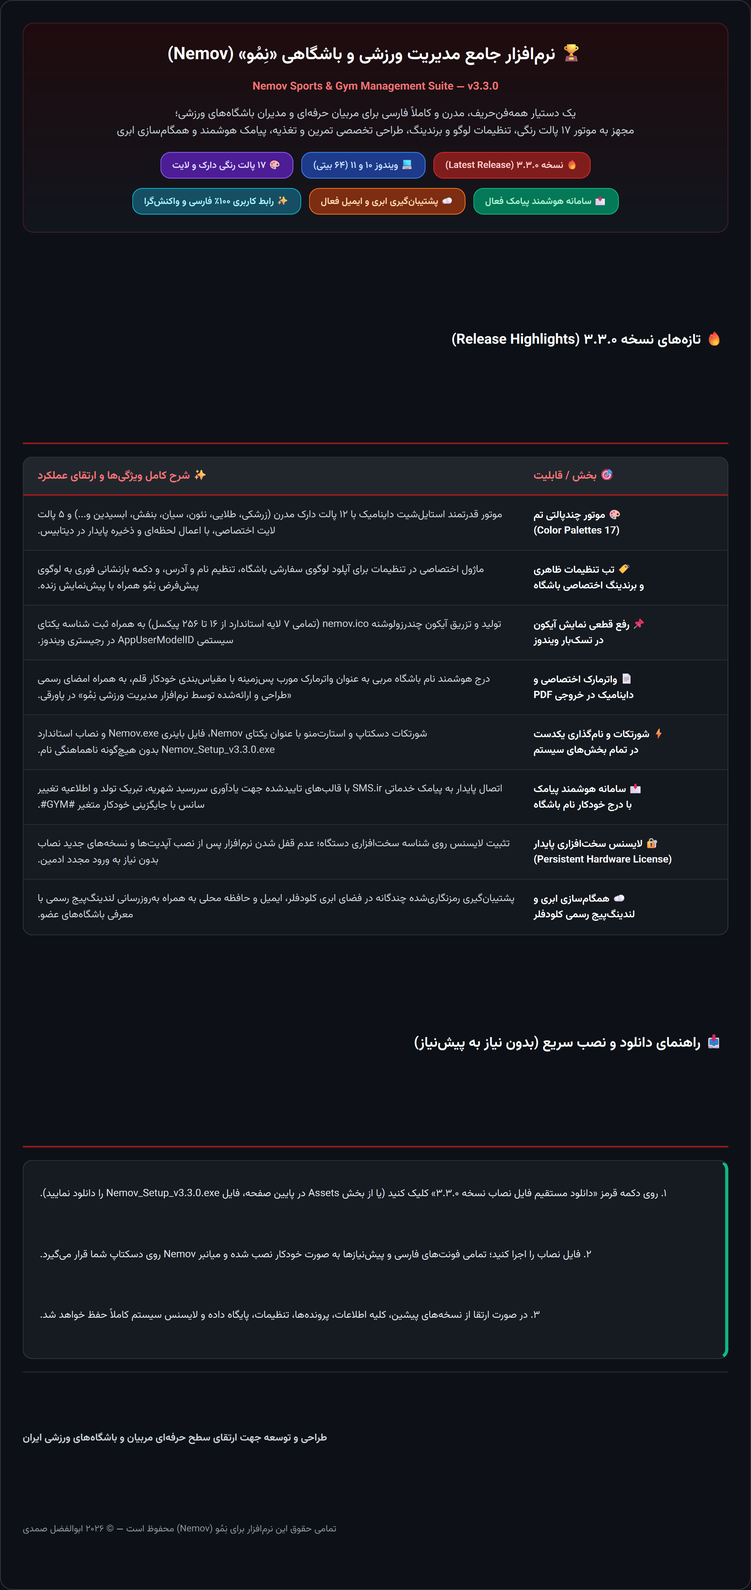
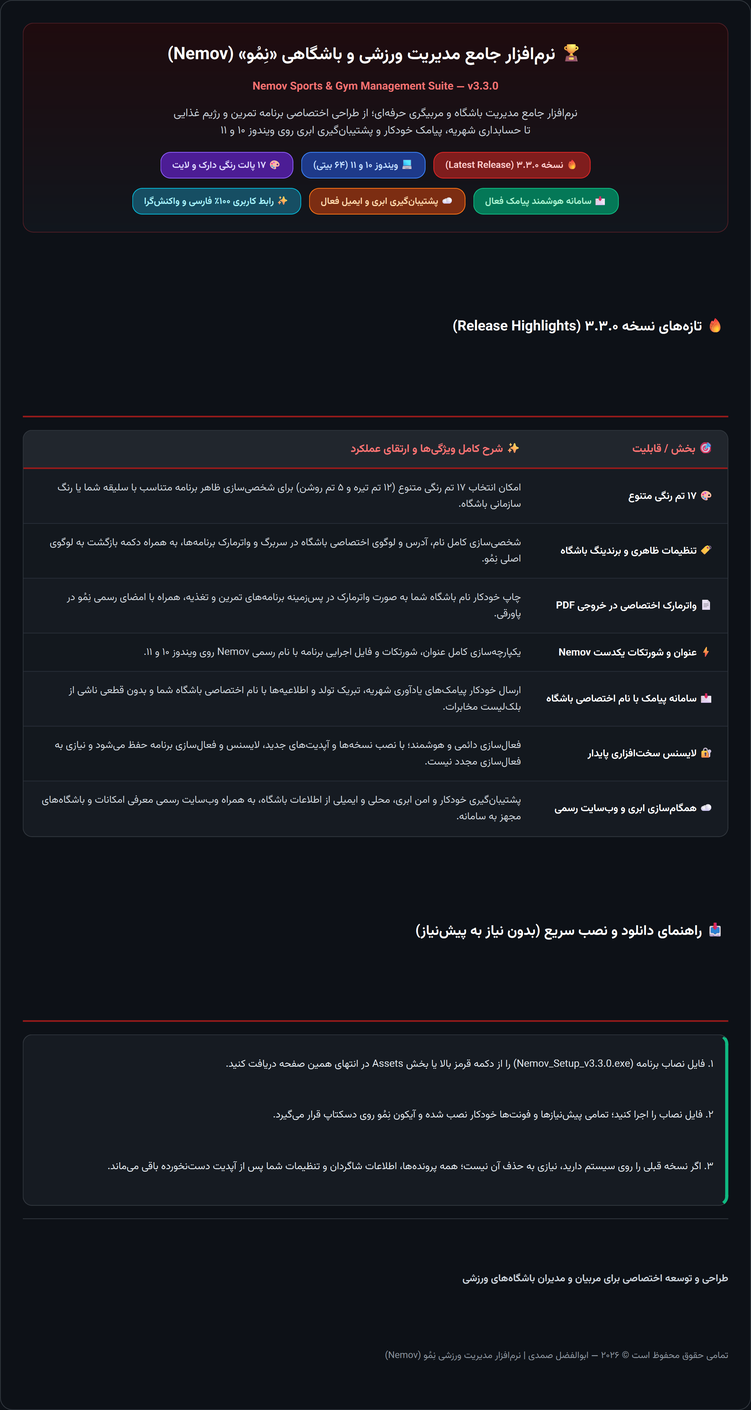
docs(readme): apply humanized Persian copywriting, remove taskbar row, and ensure strict RTL alignment

diff --git a/scripts/render_github_vazirmatn_cards.py b/scripts/render_github_vazirmatn_cards.py
@@ -62,7 +62,7 @@ def make_section_header(title_text: str) -> QFrame:
     lay = QHBoxLayout(frame)
     lay.setContentsMargins(0, 8, 0, 6)
     lbl = QLabel(title_text)
-    lbl.setAlignment(Qt.AlignmentFlag.AlignRight | Qt.AlignmentFlag.AlignVCenter)
+    lbl.setAlignment(Qt.AlignmentFlag.AlignLeading | Qt.AlignmentFlag.AlignVCenter)
     lbl.setStyleSheet(f"""
         QLabel {{
             color: #FFFFFF;
@@ -109,11 +109,11 @@ def make_feature_table(rows_data: list) -> QFrame:
 
     lbl_h1 = QLabel("🎯 بخش / قابلیت")
     lbl_h1.setFixedWidth(230)
-    lbl_h1.setAlignment(Qt.AlignmentFlag.AlignRight | Qt.AlignmentFlag.AlignVCenter)
+    lbl_h1.setAlignment(Qt.AlignmentFlag.AlignLeading | Qt.AlignmentFlag.AlignVCenter)
     lbl_h1.setStyleSheet(f"color: #F87171; font-family: '{FONT_FAMILY}'; font-size: 13.5px; font-weight: bold; border: none; background: transparent;")
 
     lbl_h2 = QLabel("✨ شرح کامل ویژگیها و ارتقای عملکرد")
-    lbl_h2.setAlignment(Qt.AlignmentFlag.AlignRight | Qt.AlignmentFlag.AlignVCenter)
+    lbl_h2.setAlignment(Qt.AlignmentFlag.AlignLeading | Qt.AlignmentFlag.AlignVCenter)
     lbl_h2.setStyleSheet(f"color: #F87171; font-family: '{FONT_FAMILY}'; font-size: 13.5px; font-weight: bold; border: none; background: transparent;")
 
     hlay.addWidget(lbl_h1)
@@ -139,16 +139,16 @@ def make_feature_table(rows_data: list) -> QFrame:
         rlay.setSpacing(16)
 
         c1 = QLabel()
-        c1.setText(f"<div dir='rtl' align='right' style='text-align: right;'>{col1.replace(chr(10), '<br/>')}</div>")
+        c1.setText(f"<div align='right'>{col1.replace(chr(10), '<br/>')}</div>")
         c1.setFixedWidth(230)
         c1.setWordWrap(True)
-        c1.setAlignment(Qt.AlignmentFlag.AlignRight | Qt.AlignmentFlag.AlignVCenter)
+        c1.setAlignment(Qt.AlignmentFlag.AlignLeading | Qt.AlignmentFlag.AlignVCenter)
         c1.setStyleSheet(f"color: #FFFFFF; font-family: '{FONT_FAMILY}'; font-size: 13px; font-weight: bold; border: none; background: transparent;")
 
         c2 = QLabel()
-        c2.setText(f"<div dir='rtl' align='right' style='text-align: right;'>{col2}</div>")
+        c2.setText(f"<div align='right'>{col2}</div>")
         c2.setWordWrap(True)
-        c2.setAlignment(Qt.AlignmentFlag.AlignRight | Qt.AlignmentFlag.AlignVCenter)
+        c2.setAlignment(Qt.AlignmentFlag.AlignLeading | Qt.AlignmentFlag.AlignVCenter)
         c2.setStyleSheet(f"color: #D0D7DE; font-family: '{FONT_FAMILY}'; font-size: 13px; border: none; background: transparent;")
 
         rlay.addWidget(c1)
@@ -217,7 +217,7 @@ def build_hero_box(is_release: bool = False) -> QFrame:
     lbl_en.setStyleSheet(f"color: #F87171; font-family: '{FONT_FAMILY}'; font-size: 14px; font-weight: bold; background: transparent; border: none;")
 
     lbl_desc = QLabel()
-    lbl_desc.setText("<div align='center'>یک دستیار همهفنحریف، مدرن و کاملاً فارسی برای مربیان حرفهای و مدیران باشگاههای ورزشی؛<br/>مجهز به موتور ۱۷ پالت رنگی، تنظیمات لوگو و برندینگ، طراحی تخصصی تمرین و تغذیه، پیامک هوشمند و همگامسازی ابری</div>")
+    lbl_desc.setText("<div align='center'>نرمافزار جامع مدیریت باشگاه و مربیگری حرفهای؛ از طراحی اختصاصی برنامه تمرین و رژیم غذایی<br/>تا حسابداری شهریه، پیامک خودکار و پشتیبانگیری ابری روی ویندوز ۱۰ و ۱۱</div>")
     lbl_desc.setAlignment(Qt.AlignmentFlag.AlignCenter)
     lbl_desc.setWordWrap(True)
     lbl_desc.setStyleSheet(f"color: #C9D1D9; font-family: '{FONT_FAMILY}'; font-size: 13.5px; background: transparent; border: none;")
@@ -265,13 +265,13 @@ def build_footer_box() -> QFrame:
     lay.setSpacing(6)
 
     l1 = QLabel()
-    l1.setText("<div dir='rtl' align='right' style='text-align: right;'>طراحی و توسعه جهت ارتقای سطح حرفهای مربیان و باشگاههای ورزشی ایران</div>")
-    l1.setAlignment(Qt.AlignmentFlag.AlignRight | Qt.AlignmentFlag.AlignVCenter)
+    l1.setText("<div align='right'>طراحی و توسعه اختصاصی برای مربیان و مدیران باشگاههای ورزشی</div>")
+    l1.setAlignment(Qt.AlignmentFlag.AlignLeading | Qt.AlignmentFlag.AlignVCenter)
     l1.setStyleSheet(f"color: #C9D1D9; font-family: '{FONT_FAMILY}'; font-size: 13px; font-weight: bold; border: none;")
 
     l2 = QLabel()
-    l2.setText("<div dir='rtl' align='right' style='text-align: right;'>تمامی حقوق این نرمافزار برای نِمُو (Nemov) محفوظ است — © ۲۰۲۶ ابوالفضل صمدی</div>")
-    l2.setAlignment(Qt.AlignmentFlag.AlignRight | Qt.AlignmentFlag.AlignVCenter)
+    l2.setText("<div align='right'>تمامی حقوق محفوظ است © ۲۰۲۶ — ابوالفضل صمدی | نرمافزار مدیریت ورزشی نِمُو (Nemov)</div>")
+    l2.setAlignment(Qt.AlignmentFlag.AlignLeading | Qt.AlignmentFlag.AlignVCenter)
     l2.setStyleSheet(f"color: #8B949E; font-family: '{FONT_FAMILY}'; font-size: 12px; border: none;")
 
     lay.addWidget(l1)
@@ -280,22 +280,20 @@ def build_footer_box() -> QFrame:
 
 
 HIGHLIGHTS_ROWS_V3_3_0 = [
-    ("🎨 موتور چندپالتی تم\n(17 Color Palettes)",
-     "موتور قدرتمند استایلشیت داینامیک با ۱۲ پالت دارک مدرن (زرشکی، طلایی، نئون، سیان، بنفش، ابسیدین و...) و ۵ پالت لایت اختصاصی، با اعمال لحظهای و ذخیره پایدار در دیتابیس."),
-    ("🏷 تب تنظیمات ظاهری\nو برندینگ اختصاصی باشگاه",
-     "ماژول اختصاصی در تنظیمات برای آپلود لوگوی سفارشی باشگاه، تنظیم نام و آدرس، و دکمه بازنشانی فوری به لوگوی پیشفرض نِمُو همراه با پیشنمایش زنده."),
-    ("📌 رفع قطعی نمایش آیکون\nدر تسکبار ویندوز",
-     "تولید و تزریق آیکون چندرزولوشنه nemov.ico (تمامی ۷ لایه استاندارد از ۱۶ تا ۲۵۶ پیکسل) به همراه ثبت شناسه یکتای سیستمی AppUserModelID در رجیستری ویندوز."),
-    ("📄 واترمارک اختصاصی و\nداینامیک در خروجی PDF",
-     "درج هوشمند نام باشگاه مربی به عنوان واترمارک مورب پسزمینه با مقیاسبندی خودکار قلم، به همراه امضای رسمی «طراحی و ارائهشده توسط نرمافزار مدیریت ورزشی نِمُو» در پاورقی."),
-    ("⚡ شورتکات و نامگذاری یکدست\nدر تمام بخشهای سیستم",
-     "شورتکات دسکتاپ و استارتمنو با عنوان یکتای Nemov، فایل باینری Nemov.exe و نصاب استاندارد Nemov_Setup_v3.3.0.exe بدون هیچگونه ناهماهنگی نام."),
-    ("📩 سامانه هوشمند پیامک\nبا درج خودکار نام باشگاه",
-     "اتصال پایدار به پیامک خدماتی SMS.ir با قالبهای تاییدشده جهت یادآوری سررسید شهریه، تبریک تولد و اطلاعیه تغییر سانس با جایگزینی خودکار متغیر #GYM#."),
-    ("🔐 لایسنس سختافزاری پایدار\n(Persistent Hardware License)",
-     "تثبیت لایسنس روی شناسه سختافزاری دستگاه؛ عدم قفل شدن نرمافزار پس از نصب آپدیتها و نسخههای جدید نصاب بدون نیاز به ورود مجدد ادمین."),
-    ("☁ همگامسازی ابری و\nلندینگپیج رسمی کلودفلر",
-     "پشتیبانگیری رمزنگاریشده چندگانه در فضای ابری کلودفلر، ایمیل و حافظه محلی به همراه بهروزرسانی لندینگپیج رسمی با معرفی باشگاههای عضو."),
+    ("🎨 ۱۷ تم رنگی متنوع",
+     "امکان انتخاب ۱۷ تم رنگی متنوع (۱۲ تم تیره و ۵ تم روشن) برای شخصیسازی ظاهر برنامه متناسب با سلیقه شما یا رنگ سازمانی باشگاه."),
+    ("🏷 تنظیمات ظاهری و برندینگ باشگاه",
+     "شخصیسازی کامل نام، آدرس و لوگوی اختصاصی باشگاه در سربرگ و واترمارک برنامهها، به همراه دکمه بازگشت به لوگوی اصلی نِمُو."),
+    ("📄 واترمارک اختصاصی در خروجی PDF",
+     "چاپ خودکار نام باشگاه شما به صورت واترمارک در پسزمینه برنامههای تمرین و تغذیه، همراه با امضای رسمی نِمُو در پاورقی."),
+    ("⚡ عنوان و شورتکات یکدست Nemov",
+     "یکپارچهسازی کامل عنوان، شورتکات و فایل اجرایی برنامه با نام رسمی Nemov روی ویندوز ۱۰ و ۱۱."),
+    ("📩 سامانه پیامک با نام اختصاصی باشگاه",
+     "ارسال خودکار پیامکهای یادآوری شهریه، تبریک تولد و اطلاعیهها با نام اختصاصی باشگاه شما و بدون قطعی ناشی از بلکلیست مخابرات."),
+    ("🔐 لایسنس سختافزاری پایدار",
+     "فعالسازی دائمی و هوشمند؛ با نصب نسخهها و آپدیتهای جدید، لایسنس و فعالسازی برنامه حفظ میشود و نیازی به فعالسازی مجدد نیست."),
+    ("☁ همگامسازی ابری و وبسایت رسمی",
+     "پشتیبانگیری خودکار و امن ابری، محلی و ایمیلی از اطلاعات باشگاه، به همراه وبسایت رسمی معرفی امکانات و باشگاههای مجهز به سامانه."),
 ]
 
 
@@ -316,15 +314,15 @@ def build_steps_box() -> QFrame:
     lay.setSpacing(8)
 
     steps = [
-        "۱. روی دکمه قرمز «دانلود مستقیم فایل نصاب نسخه ۳.۳.۰» کلیک کنید (یا از بخش Assets در پایین صفحه، فایل Nemov_Setup_v3.3.0.exe را دانلود نمایید).",
-        "۲. فایل نصاب را اجرا کنید؛ تمامی فونتهای فارسی و پیشنیازها به صورت خودکار نصب شده و میانبر Nemov روی دسکتاپ شما قرار میگیرد.",
-        "۳. در صورت ارتقا از نسخههای پیشین، کلیه اطلاعات، پروندهها، تنظیمات، پایگاه داده و لایسنس سیستم کاملاً حفظ خواهد شد.",
+        "۱. فایل نصاب برنامه (Nemov_Setup_v3.3.0.exe) را از دکمه قرمز بالا یا بخش Assets در انتهای همین صفحه دریافت کنید.",
+        "۲. فایل نصاب را اجرا کنید؛ تمامی پیشنیازها و فونتها خودکار نصب شده و آیکون نِمُو روی دسکتاپ قرار میگیرد.",
+        "۳. اگر نسخه قبلی را روی سیستم دارید، نیازی به حذف آن نیست؛ همه پروندهها، اطلاعات شاگردان و تنظیمات شما پس از آپدیت دستنخورده باقی میماند.",
     ]
     for s in steps:
         lbl = QLabel()
-        lbl.setText(f"<div dir='rtl' align='right' style='text-align: right; line-height: 1.5;'>{s}</div>")
+        lbl.setText(f"<div align='right' style='line-height: 1.5;'>{s}</div>")
         lbl.setWordWrap(True)
-        lbl.setAlignment(Qt.AlignmentFlag.AlignRight | Qt.AlignmentFlag.AlignVCenter)
+        lbl.setAlignment(Qt.AlignmentFlag.AlignLeading | Qt.AlignmentFlag.AlignVCenter)
         lbl.setStyleSheet(f"color: #E6EDF3; font-family: '{FONT_FAMILY}'; font-size: 13px; border: none; background: transparent;")
         lay.addWidget(lbl)
     return box
@@ -372,8 +370,8 @@ def make_info_card(title: str, bullets: list) -> QFrame:
     vlay.setSpacing(10)
 
     lbl_t = QLabel()
-    lbl_t.setText(f"<div dir='rtl' align='right' style='text-align: right;'>{title}</div>")
-    lbl_t.setAlignment(Qt.AlignmentFlag.AlignRight | Qt.AlignmentFlag.AlignVCenter)
+    lbl_t.setText(f"<div align='right'>{title}</div>")
+    lbl_t.setAlignment(Qt.AlignmentFlag.AlignLeading | Qt.AlignmentFlag.AlignVCenter)
     lbl_t.setStyleSheet(f"""
         color: #FCA5A5;
         font-family: '{FONT_FAMILY}';
@@ -387,9 +385,9 @@ def make_info_card(title: str, bullets: list) -> QFrame:
 
     for b in bullets:
         lbl_b = QLabel()
-        lbl_b.setText(f"<div dir='rtl' align='right' style='text-align: right; line-height: 1.45;'>•  {b}</div>")
+        lbl_b.setText(f"<div align='right' style='line-height: 1.45;'>•  {b}</div>")
         lbl_b.setWordWrap(True)
-        lbl_b.setAlignment(Qt.AlignmentFlag.AlignRight | Qt.AlignmentFlag.AlignTop)
+        lbl_b.setAlignment(Qt.AlignmentFlag.AlignLeading | Qt.AlignmentFlag.AlignTop)
         lbl_b.setStyleSheet(f"color: #D0D7DE; font-family: '{FONT_FAMILY}'; font-size: 12.8px; border: none; background: transparent;")
         vlay.addWidget(lbl_b)
 
@@ -431,13 +429,13 @@ def build_readme_showcase() -> QWidget:
     ilay.setContentsMargins(20, 16, 20, 16)
     ilay.setSpacing(6)
     it1 = QLabel()
-    it1.setText("<div dir='rtl' align='right' style='text-align: right;'>🌟 چرا نرمافزار ورزشی «نِمُو» (Nemov)؟</div>")
-    it1.setAlignment(Qt.AlignmentFlag.AlignRight)
+    it1.setText("<div align='right'>⚡ چرا نرمافزار نِمُو (Nemov)؟</div>")
+    it1.setAlignment(Qt.AlignmentFlag.AlignLeading)
     it1.setStyleSheet(f"color: #FFFFFF; font-family: '{FONT_FAMILY}'; font-size: 15.5px; font-weight: bold; border: none; background: transparent;")
     it2 = QLabel()
-    it2.setText("<div dir='rtl' align='right' style='text-align: right; line-height: 1.55;'>نرمافزار نِمُو (Nemov) با درک عمیق نیازهای روزمره مربیان بدنسازی و فیتنس طراحی شده است؛ محیطی فوقالعاده مدرن با ۱۷ تم دارک و لایت، چیدمان کاملاً راستبهچپ (RTL) و سرعت اجرای لحظهای که به صورت ۱۰۰٪ آفلاین و بدون نیاز به اینترنت کار میکند و در عین حال به سرور ابری، سامانه پیامک و بانک جامع حرکات ورزشی و تغذیه مجهز است.</div>")
+    it2.setText("<div align='right' style='line-height: 1.55;'>نِمُو برای مربیانی طراحی شده که میخواهند بدون درگیری با کاغذبازی، شلوغی دفتر و قطعی اینترنت، همه کارهای باشگاه را در یک محیط زیبا و روان انجام دهند. برنامهها را با نام و لوگوی باشگاه خودتان چاپ کنید، شهریهها را مدیریت کنید و خیالتان از امنیت اطلاعات راحت باشد.</div>")
     it2.setWordWrap(True)
-    it2.setAlignment(Qt.AlignmentFlag.AlignRight)
+    it2.setAlignment(Qt.AlignmentFlag.AlignLeading)
     it2.setStyleSheet(f"color: #D0D7DE; font-family: '{FONT_FAMILY}'; font-size: 13px; border: none; background: transparent;")
     ilay.addWidget(it1)
     ilay.addWidget(it2)
@@ -449,29 +447,29 @@ def build_readme_showcase() -> QWidget:
     vlay.addWidget(make_section_header("💎 امکانات جامع نرمافزار در یک نگاه"))
     grid = QGridLayout()
     grid.setSpacing(16)
-    grid.addWidget(make_info_card("۱. 👥 پرونده کامل ورزشکاران و سنجش فیزیکی", [
-        "ثبت مشخصات فردی، تماس، تاریخ تولد شمسی و عکس پروفایل (وبکم یا فایل).",
-        "ارزیابی آنتروپومتریک (قد، وزن، درصد چربی، دور سینه، کمر، شکم، بازو، ران و ساق).",
-        "مقایسه تصویری قبل و بعد (Before & After) جهت پایش پیشرفت بدنی شاگرد.",
-        "مدیریت مدارک پزشکی چندصفحهای (PDF و تصویر) با قابلیت زوم و چرخش صفحات.",
+    grid.addWidget(make_info_card("۱. 👥 پرونده ورزشکاران و ارزیابی فیزیکی", [
+        "ثبت اطلاعات فردی، تماس، تاریخ تولد شمسی و تصویر شاگرد",
+        "سنجش دقیق سایز عضلات، وزن، قد و درصد چربی",
+        "مقایسه تصویری قبل و بعد (Before & After) برای نمایش پیشرفت بدنی",
+        "بایگانی و نمایش مدارک پزشکی و آزمایشها با امکان چرخش و زوم",
     ]), 0, 0)
-    grid.addWidget(make_info_card("۲. 🥗 مهندسی تغذیه، رژیم ایرانی و BMR / TDEE", [
-        "محاسبه خودکار متابولیسم پایه (BMR) و کالری تثبیت روزانه (TDEE) با فرمول علمی.",
-        "محاسبه لحظهای گرم و درصد پروتئین، کربوهیدرات و چربی بر اساس هدف شاگرد.",
-        "بانک جامع غذاهای ایرانی و مکملها با ارزش غذایی دقیق و امکان افزودن خوراکی جدید.",
-        "ذخیره و بارگذاری آنی الگوهای غذایی پرتکرار در بانک الگوها.",
+    grid.addWidget(make_info_card("۲. 🥗 مهندسی تغذیه، رژیم ایرانی و کالریشماری", [
+        "محاسبه هوشمند کالری مصرفی روزانه و درشتمغذیها (پروتئین، کربوهیدرات، چربی) متناسب با وزن و هدف شاگرد",
+        "بانک جامع غذاهای ایرانی و مکملهای ورزشی با امکان افزودن خوراکی جدید",
+        "ذخیره و بارگذاری آسان رژیمهای پرتکرار در بانک الگوها",
+        "تنظیم و تفکیک دقیق وعدهها و میانوعدههای روزانه",
     ]), 0, 1)
     grid.addWidget(make_info_card("۳. 🏋♂ طراحی برنامه تمرینی و بانک حرکات چندرسانهای", [
-        "برنامهریزی ۱ تا ۶ روز در هفته با تنظیم ست، تکرار، سیستم تمرینی و توضیحات حرکت.",
-        "بانک حرکات مجهز به تصویر و ویدیوی آموزشی با تفکیک عضله هدف و تجهیزات.",
-        "بانک الگوهای آماده تمرینی جهت صدور سریع برنامه برای شاگردان جدید.",
-        "خروجی چاپی PDF با واترمارک اختصاصی باشگاه، فایل وب تعاملی HTML و بسته فشرده ZIP.",
+        "تنظیم برنامههای ۱ تا ۶ روزه با تعداد ست، تکرار، وزنه، ریتم و زمان استراحت",
+        "بانک جامع حرکات ورزشی با ویدیوی اجرای صحیح و تصویر آناتومی عضلات",
+        "بانک الگوهای آماده جهت صدور سریع برنامه برای شاگردان جدید",
+        "خروجی چاپی باکیفیت PDF با واترمارک اختصاصی باشگاه، نسخه وب تعاملی و فایل ZIP",
     ]), 1, 0)
-    grid.addWidget(make_info_card("۴. 🔐 مدیریت چندمربی، امنیت و سامانه پیامک", [
-        "محیط کاری کاملاً مستقل و تفکیکشده برای هر مربی با نام کاربری و رمز اختصاصی.",
-        "ارسال آنی پیامک یادآوری شهریه و تبریک تولد از طریق وبسرویس رسمی SMS.ir.",
-        "پنل مدیریت ارشد (Admin) جهت مدیریت مربیان و لایسنس پایدار سختافزاری.",
-        "ثبت خودکار وقایع و لاگهای فنی (System Diagnostics) با نمایشگر داخلی.",
+    grid.addWidget(make_info_card("۴. 💰 حسابداری شهریه، مدیریت مربیان و پیامک", [
+        "محیط کاری تفکیکشده برای هر مربی با دسترسیهای مشخص",
+        "صندوق شهریه، ثبت تاریخ سررسید و یادآوری هوشمند زمان تمدید",
+        "ارسال خودکار پیامکهای یادآوری و مناسبتی بدون قطعی بلکلیست مخابرات",
+        "ثبت خودکار گزارشها و لاگهای سیستم جهت مدیریت بهینه باشگاه",
     ]), 1, 1)
     vlay.addLayout(grid)
 

diff --git a/TEST_READY.md b/TEST_READY.md
@@ -1,6 +1,6 @@
 # Test Readiness & E2E Verification Report (`TEST_READY.md`)
 
-- **Timestamp**: 2026-10-11 15:45:27 UTC
+- **Timestamp**: 2026-10-11 16:30:22 UTC
 - **Project**: Nemov Rebranding, Multi-Theme Engine & Appearance Settings (v3.3.0)
 - **Suite Path**: `scripts/qa_nemov_e2e_test.py`
 - **Execution Command**: `.\venv\Scripts\python.exe scripts/qa_nemov_e2e_test.py`
@@ -25,25 +25,25 @@
 
 | Tier | Test ID | Feature / Contract | Milestone | Status | Duration | Details / Diagnostics |
 |---|---|---|---|---|---|---|
-| Tier 1 | `T1.1_CONFIG_CONSTANTS` | Branding Constants in config.py | M1 | **✅ PASS** | 169.3ms | All core branding constants match official specifications. |
-| Tier 1 | `T1.2_WINDOW_TITLES` | Window & Sidebar Titles Rebranding | M1 | **✅ PASS** | 0.7ms | Window titles in MainWindow, LoginView, and Sidebar properly rebranded. |
+| Tier 1 | `T1.1_CONFIG_CONSTANTS` | Branding Constants in config.py | M1 | **✅ PASS** | 152.7ms | All core branding constants match official specifications. |
+| Tier 1 | `T1.2_WINDOW_TITLES` | Window & Sidebar Titles Rebranding | M1 | **✅ PASS** | 0.6ms | Window titles in MainWindow, LoginView, and Sidebar properly rebranded. |
 | Tier 1 | `T1.3_LOGO_FILES_LAYERS` | Multi-Resolution Logo & ICO Files | M1 | **✅ PASS** | 0.0ms | nemov.ico contains all 7 required layers [(16, 16), (24, 24), (32, 32), (48, 48), (64, 64), (128, 128), (256, 256)] and 512x512 display PNG. |
 | Tier 1 | `T1.4_APP_USER_MODEL_ID` | Windows AppUserModelID Registration | M1 | **✅ PASS** | 0.3ms | AppUserModelID registered with 'nemov.sports.management.desktop.v3' for crisp Windows taskbar pinning. |
-| Tier 1 | `T1.5_SETTINGS_TABLE_KEYS` | Database SystemSetting Keys Support | M2 | **✅ PASS** | 420.2ms | SystemSetting key-value table successfully supports all keys: ['club_name', 'club_phone', 'club_address', 'club_logo_path', 'app_theme'] |
-| Tier 1 | `T1.6_BRANDING_SERVICE` | BrandingService Interface Contract | M2 | **✅ PASS** | 16.8ms | BrandingService implements all required interface contracts. |
-| Tier 1 | `T1.7_THEME_MANAGER_PALETTES` | ThemeManager 17-Palette Engine | M3 | **✅ PASS** | 6.9ms | ThemeManager contains all 17 palettes (12 dark, 5 light) with full token mappings. |
-| Tier 1 | `T1.8_PDF_SIGNATURE_HEADER` | Official Nemov PDF Footer Signature | M3 | **✅ PASS** | 94.6ms | Official Nemov footer signature verified on PDF canvas at y=7. |
-| Tier 1 | `T1.9_SMS_DYNAMIC_CLUB` | Dynamic SMS #GYM# Club Name Injection | M3 | **✅ PASS** | 0.3ms | SMS service contains dynamic club name resolution for #GYM# tag. |
-| Tier 1 | `T1.10_CLOUDFLARE_WORKER` | Cloudflare Landing Page Rebranding | M4 | **✅ PASS** | 1.5ms | Cloudflare Worker landing page rebranded to Nemov v3.3.0 with Yalda partner card fully preserved. |
-| Tier 1 | `T1.11_PACKAGING_SPECS` | NSIS Installer & PyInstaller Spec | M1 | **✅ PASS** | 0.3ms | NSIS installer and PyInstaller spec properly configured for Nemov v3.3.0. |
-| Tier 2 | `T2.1_EMPTY_CLUB_NAME_FALLBACK` | Empty Club Name Fallback | M2 | **✅ PASS** | 11.0ms | All empty/whitespace inputs correctly fallback to 'نرمافزار مدیریت ورزشی نِمُو'. |
-| Tier 2 | `T2.2_MISSING_LOGO_FALLBACK` | Missing Custom Logo Fallback | M2 | **✅ PASS** | 6.4ms | Non-existent custom logo safely fell back to existing default logo: C:\Users\user\.gemini\antigravity\scratch\yalda_gym_app\resources\images\nemov_logo.png |
-| Tier 2 | `T2.3_INVALID_THEME_FALLBACK` | Invalid Theme ID Fallback | M3 | **✅ PASS** | 5.7ms | Invalid theme ID handled safely without crashing. Active theme: crimson_fury |
-| Tier 2 | `T2.4_RESOLUTIONS_GEOMETRY` | Extreme Resolutions 1024x768 vs 1920x1080 | M2 | **✅ PASS** | 200.2ms | UI layouts successfully evaluated at 1024x768 and 1920x1080 without clipping or zero-rects. |
-| Tier 3 | `T3.1_THEME_PDF_ACCENT` | Theme Switching -> PDF Top Bar Accent Reflection | M3 | **✅ PASS** | 247.3ms | PDF generator top bar dynamically reflected theme accent: Royal Gold -> Color(.831373,.686275,.215686,1), Neon -> Color(.062745,.72549,.505882,1) |
-| Tier 3 | `T3.2_LOGO_UPLOAD_RESET_ROUNDTRIP` | Logo Upload -> PDF Watermark -> Reset Round-Trip | M2/M3 | **✅ PASS** | 22.9ms | Upload -> Active -> PDF Reflection -> Reset to Nemov logo completed full round-trip. |
-| Tier 3 | `T3.3_CLUB_INFO_SMS_FORMATTING` | Club Info -> SMS #GYM# Replacement | M3 | **✅ PASS** | 6.2ms | Dynamic club name 'باشگاه بدنسازی یلدا' verified across all 5 SMS templates. |
-| Tier 4 | `T4.1_TRAINER_WORKFLOW_E2E` | Complete Trainer Workflow E2E | M1-M4 | **✅ PASS** | 137.2ms | Complete real-world trainer workflow successfully executed end-to-end with 100% contract compliance. |
+| Tier 1 | `T1.5_SETTINGS_TABLE_KEYS` | Database SystemSetting Keys Support | M2 | **✅ PASS** | 421.4ms | SystemSetting key-value table successfully supports all keys: ['club_name', 'club_phone', 'club_address', 'club_logo_path', 'app_theme'] |
+| Tier 1 | `T1.6_BRANDING_SERVICE` | BrandingService Interface Contract | M2 | **✅ PASS** | 15.1ms | BrandingService implements all required interface contracts. |
+| Tier 1 | `T1.7_THEME_MANAGER_PALETTES` | ThemeManager 17-Palette Engine | M3 | **✅ PASS** | 6.1ms | ThemeManager contains all 17 palettes (12 dark, 5 light) with full token mappings. |
+| Tier 1 | `T1.8_PDF_SIGNATURE_HEADER` | Official Nemov PDF Footer Signature | M3 | **✅ PASS** | 92.2ms | Official Nemov footer signature verified on PDF canvas at y=7. |
+| Tier 1 | `T1.9_SMS_DYNAMIC_CLUB` | Dynamic SMS #GYM# Club Name Injection | M3 | **✅ PASS** | 0.2ms | SMS service contains dynamic club name resolution for #GYM# tag. |
+| Tier 1 | `T1.10_CLOUDFLARE_WORKER` | Cloudflare Landing Page Rebranding | M4 | **✅ PASS** | 1.4ms | Cloudflare Worker landing page rebranded to Nemov v3.3.0 with Yalda partner card fully preserved. |
+| Tier 1 | `T1.11_PACKAGING_SPECS` | NSIS Installer & PyInstaller Spec | M1 | **✅ PASS** | 0.2ms | NSIS installer and PyInstaller spec properly configured for Nemov v3.3.0. |
+| Tier 2 | `T2.1_EMPTY_CLUB_NAME_FALLBACK` | Empty Club Name Fallback | M2 | **✅ PASS** | 11.2ms | All empty/whitespace inputs correctly fallback to 'نرمافزار مدیریت ورزشی نِمُو'. |
+| Tier 2 | `T2.2_MISSING_LOGO_FALLBACK` | Missing Custom Logo Fallback | M2 | **✅ PASS** | 5.8ms | Non-existent custom logo safely fell back to existing default logo: C:\Users\user\.gemini\antigravity\scratch\yalda_gym_app\resources\images\nemov_logo.png |
+| Tier 2 | `T2.3_INVALID_THEME_FALLBACK` | Invalid Theme ID Fallback | M3 | **✅ PASS** | 5.4ms | Invalid theme ID handled safely without crashing. Active theme: crimson_fury |
+| Tier 2 | `T2.4_RESOLUTIONS_GEOMETRY` | Extreme Resolutions 1024x768 vs 1920x1080 | M2 | **✅ PASS** | 191.9ms | UI layouts successfully evaluated at 1024x768 and 1920x1080 without clipping or zero-rects. |
+| Tier 3 | `T3.1_THEME_PDF_ACCENT` | Theme Switching -> PDF Top Bar Accent Reflection | M3 | **✅ PASS** | 227.1ms | PDF generator top bar dynamically reflected theme accent: Royal Gold -> Color(.831373,.686275,.215686,1), Neon -> Color(.062745,.72549,.505882,1) |
+| Tier 3 | `T3.2_LOGO_UPLOAD_RESET_ROUNDTRIP` | Logo Upload -> PDF Watermark -> Reset Round-Trip | M2/M3 | **✅ PASS** | 20.9ms | Upload -> Active -> PDF Reflection -> Reset to Nemov logo completed full round-trip. |
+| Tier 3 | `T3.3_CLUB_INFO_SMS_FORMATTING` | Club Info -> SMS #GYM# Replacement | M3 | **✅ PASS** | 5.7ms | Dynamic club name 'باشگاه بدنسازی یلدا' verified across all 5 SMS templates. |
+| Tier 4 | `T4.1_TRAINER_WORKFLOW_E2E` | Complete Trainer Workflow E2E | M1-M4 | **✅ PASS** | 122.9ms | Complete real-world trainer workflow successfully executed end-to-end with 100% contract compliance. |
 
 ---
 
